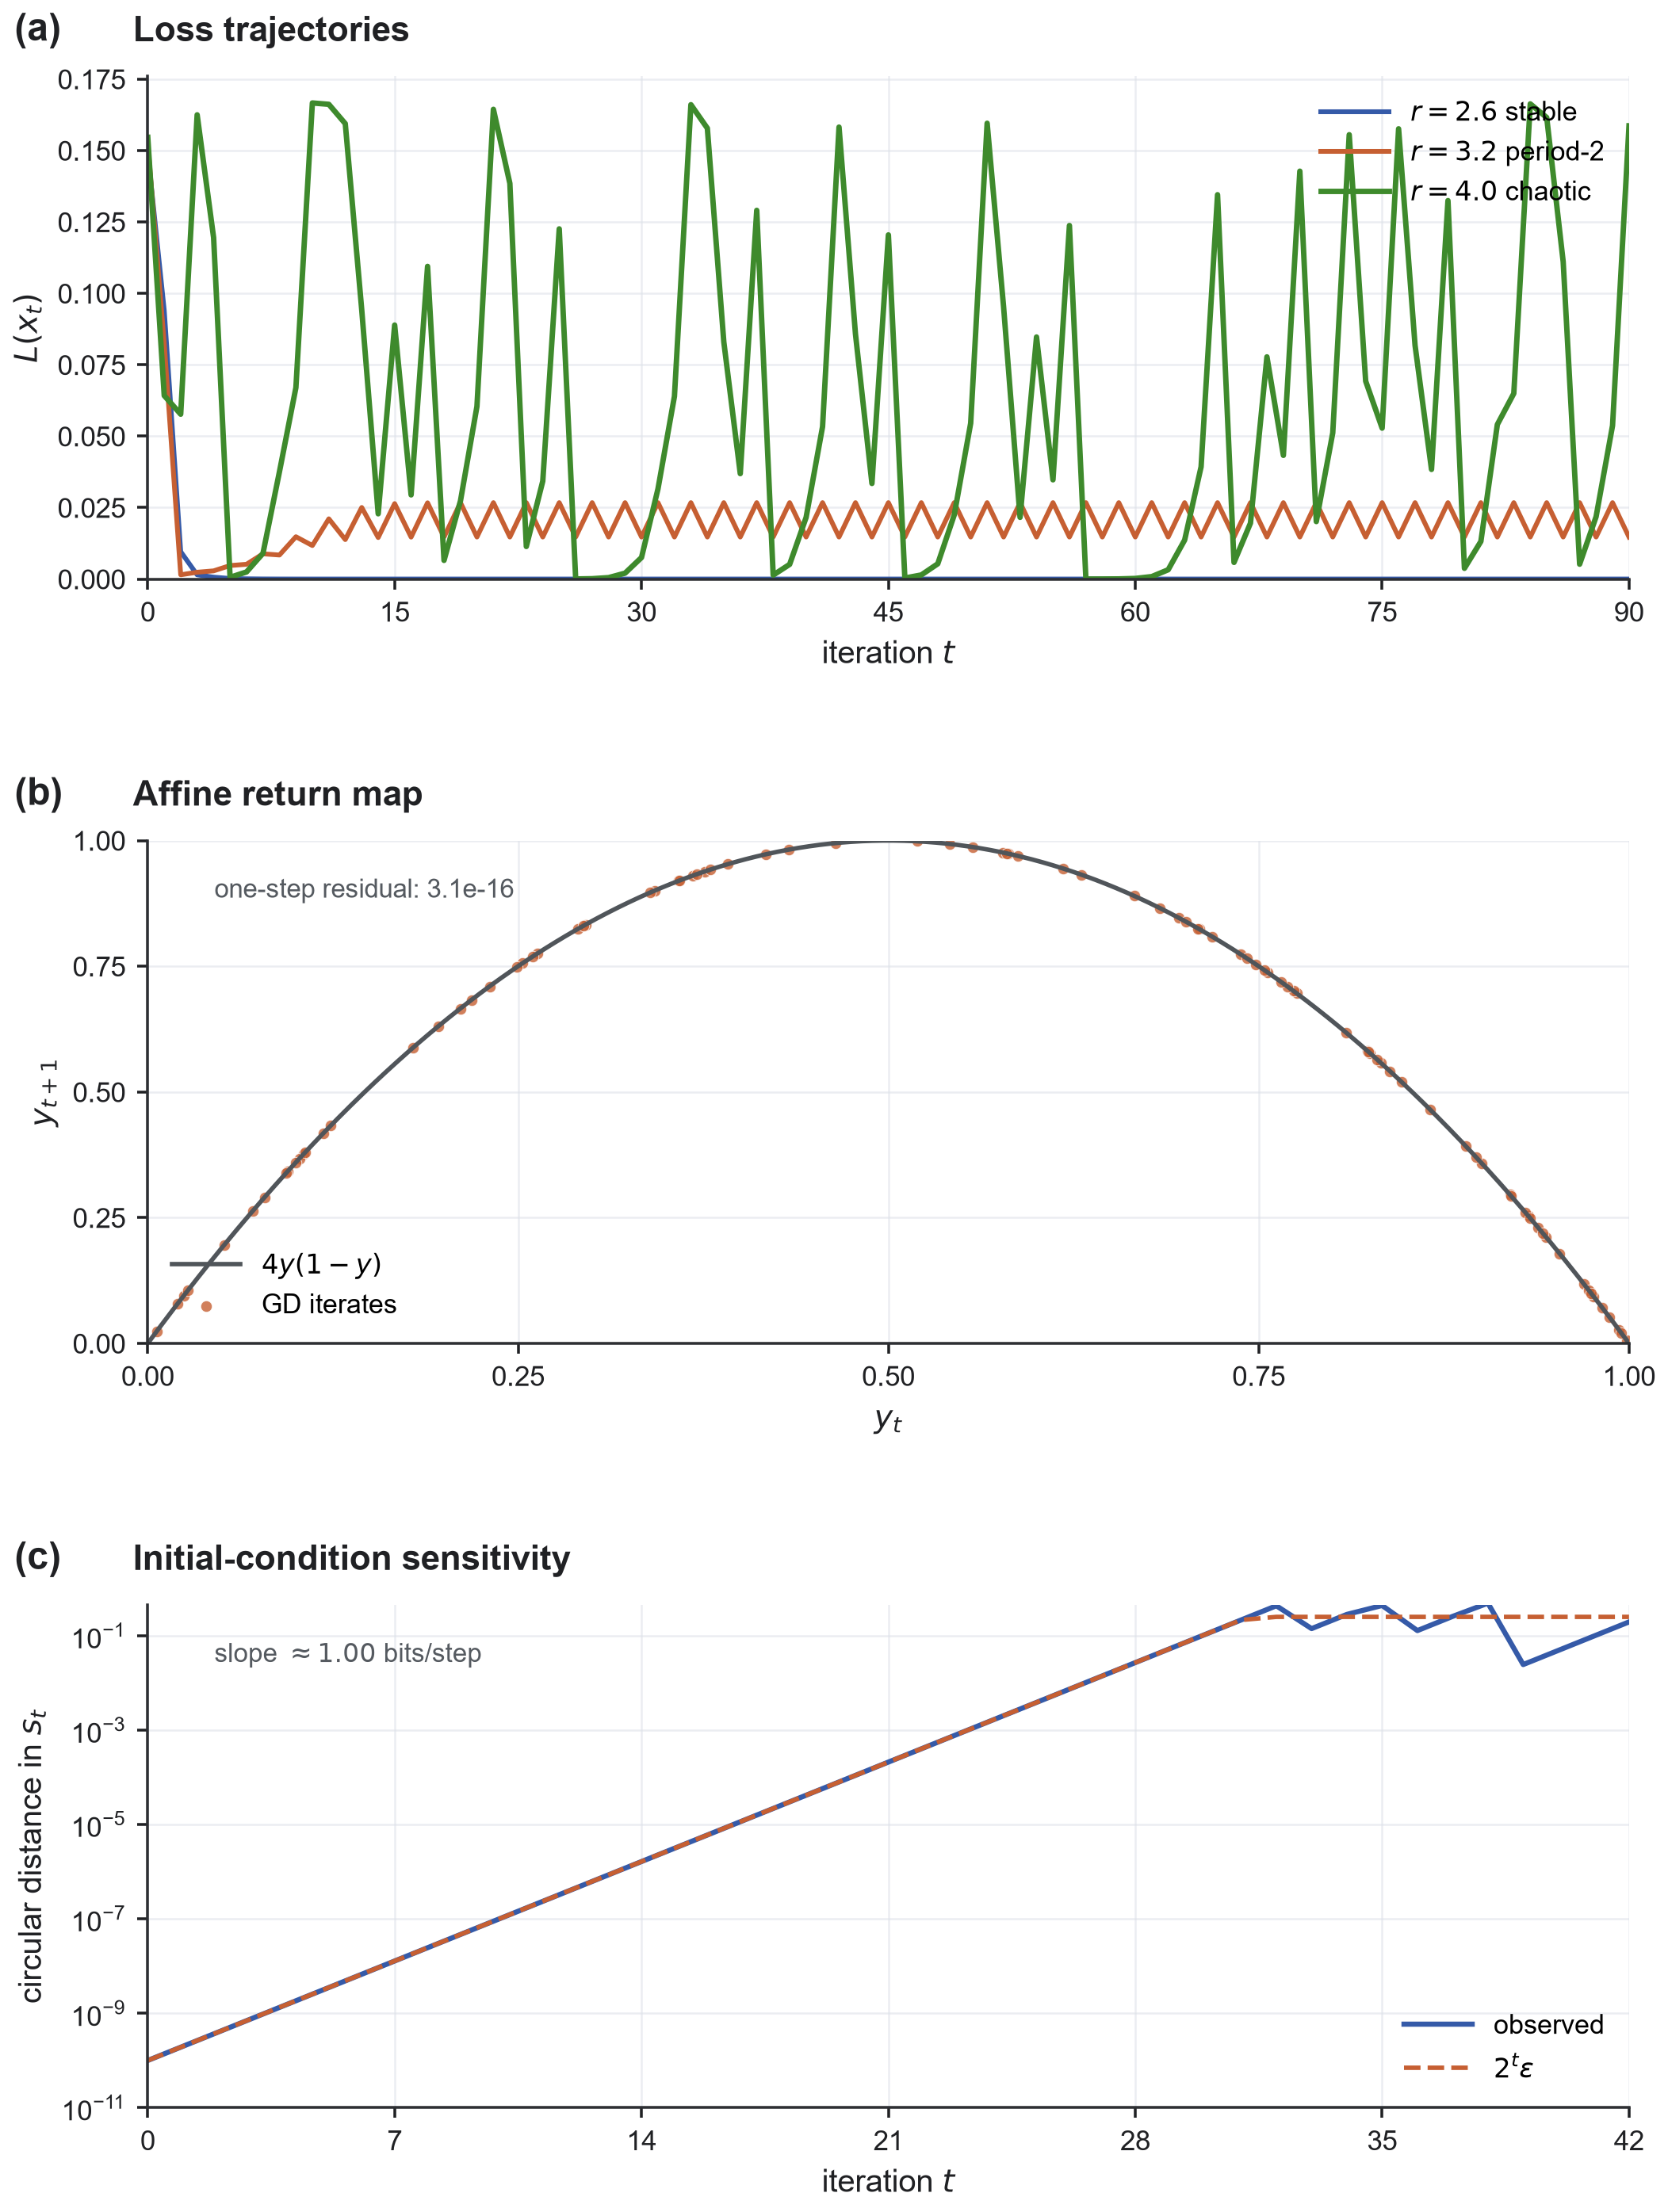
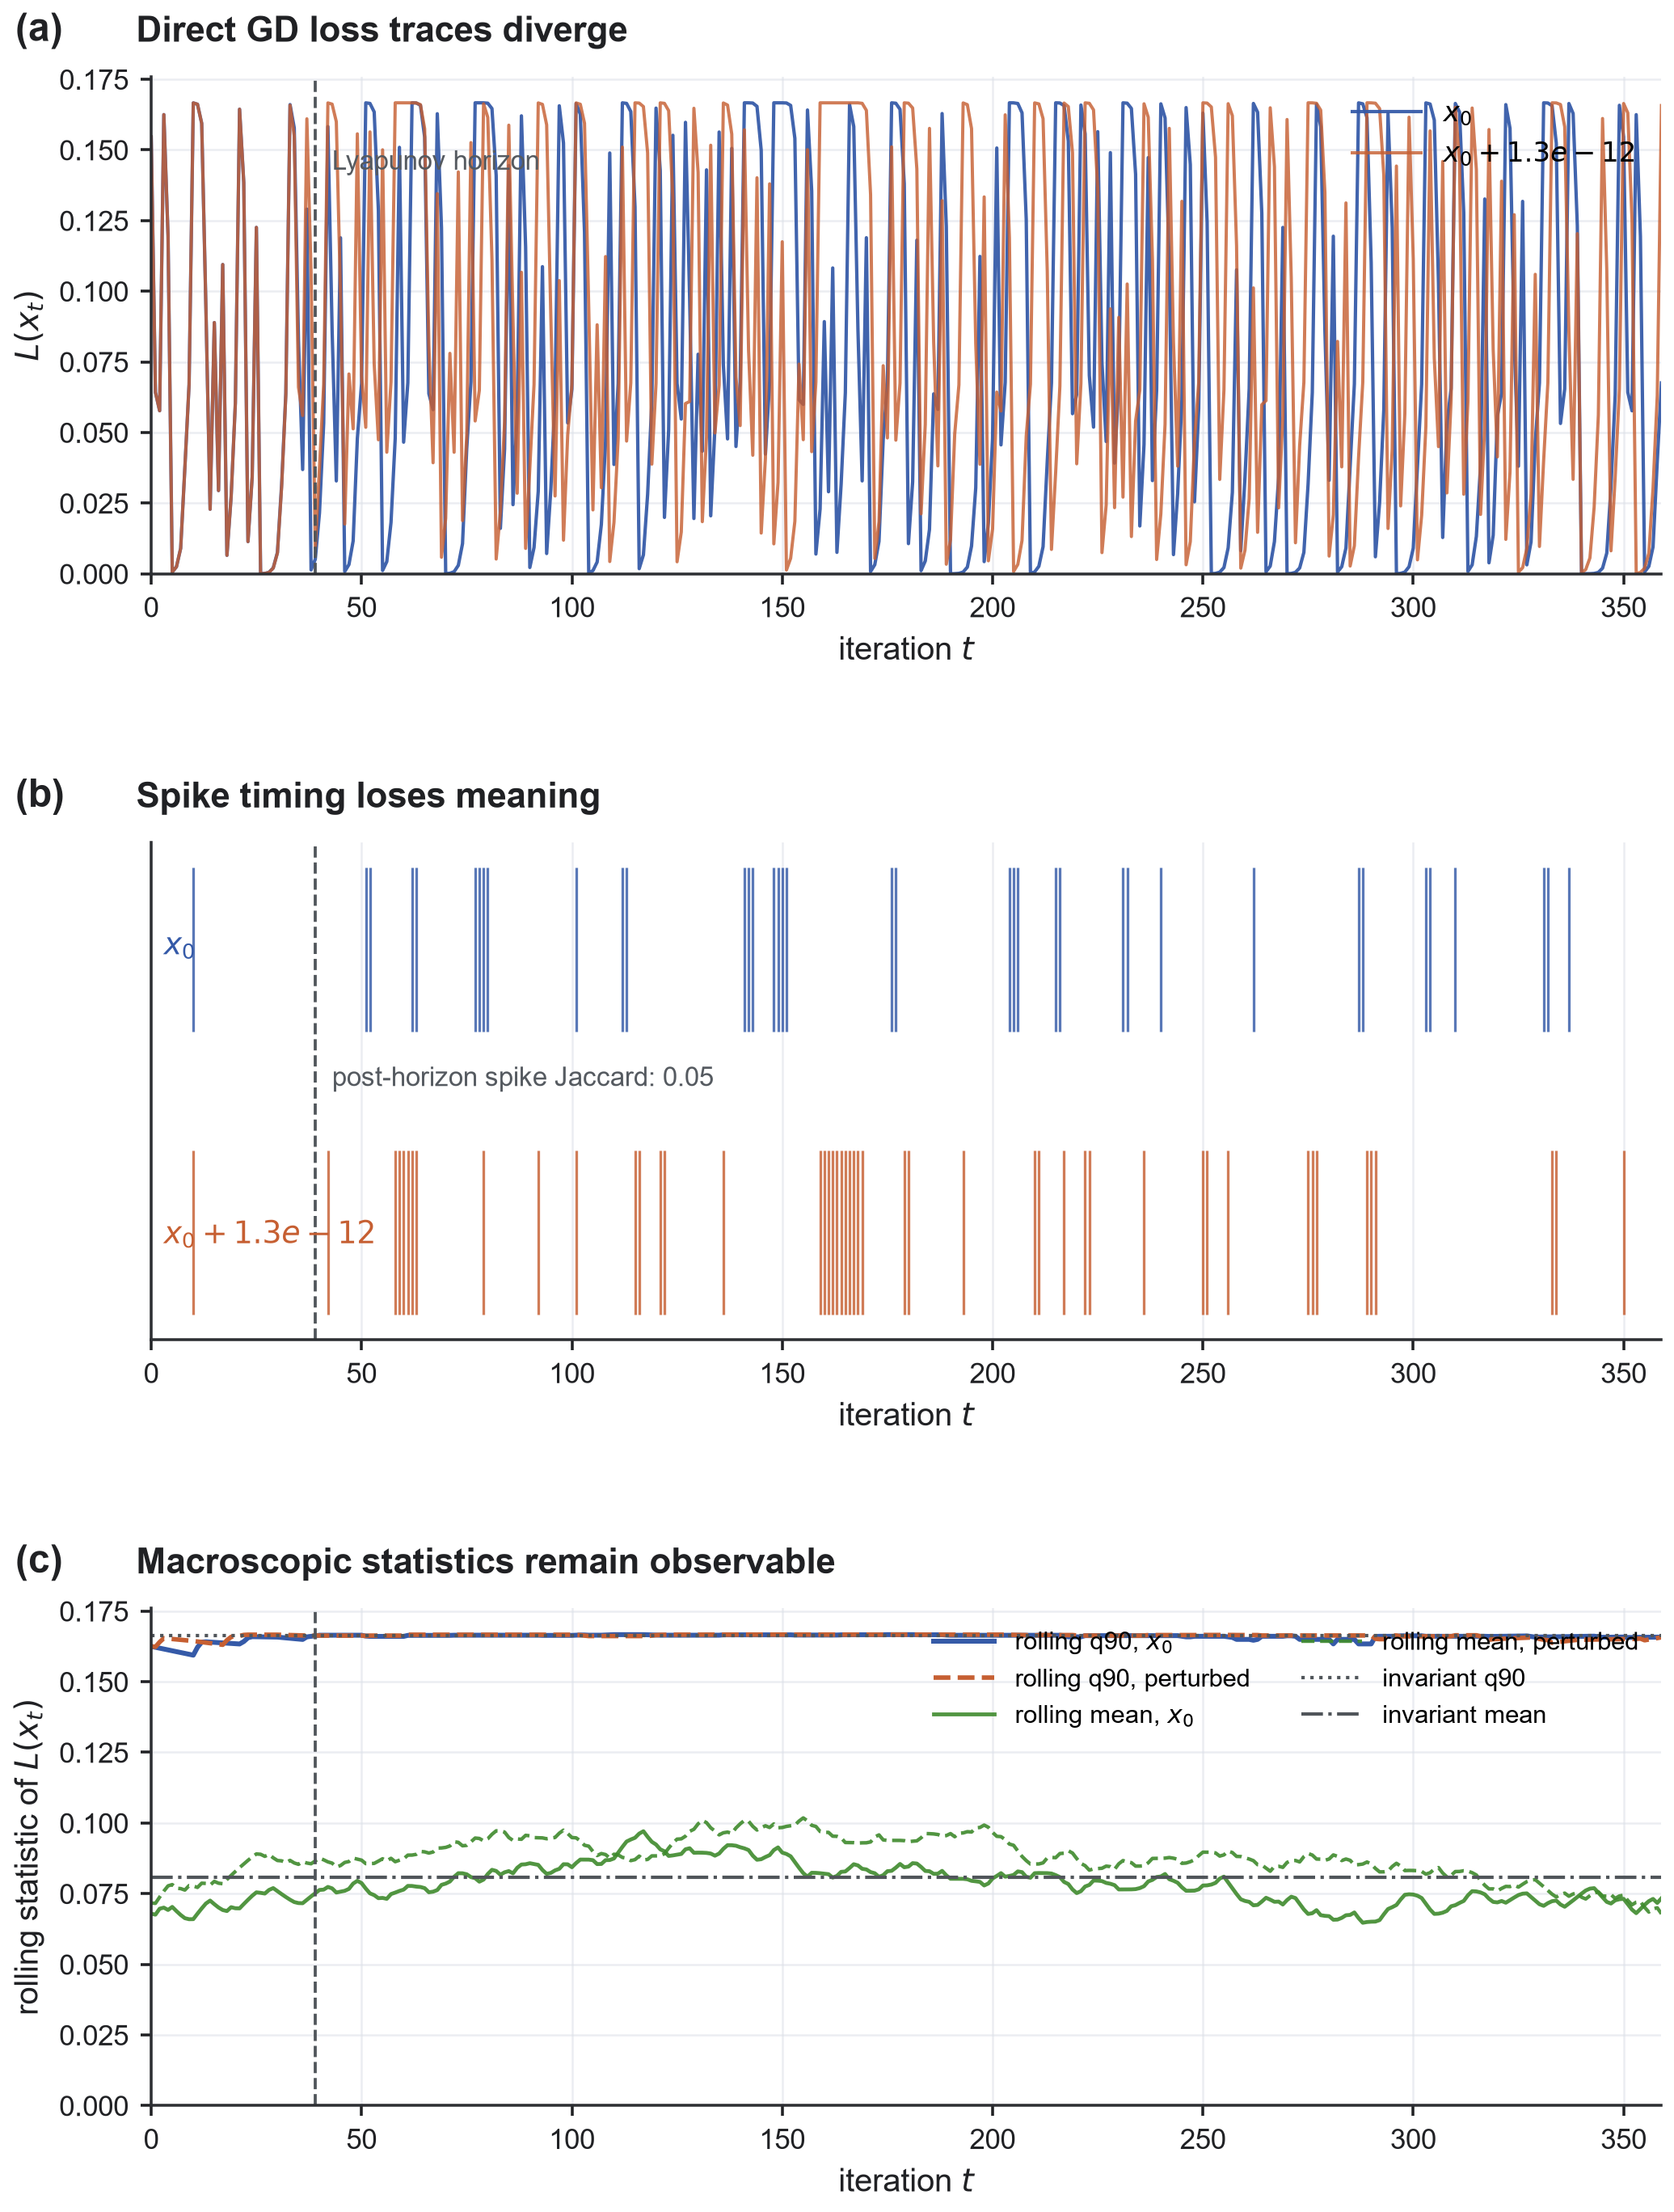
Refine blog template wording and emphasis

diff --git a/_posts/2026-06-14-loss-spikes-chaos.md b/_posts/2026-06-14-loss-spikes-chaos.md
@@ -69,7 +69,9 @@ $$\ell_t = L(x_t) = h(y_t), \quad y_{t+1} = r\, y_t(1-y_t)$$
 
 ## 6. 数值验证
 
-下面做一个最小数值实验来检查上面的三个结论。取
+前面的推导已经说明，三次 loss 下的 GD 可以严格化成 Logistic map。这里的数值实验直接迭代原始 GD 递推，不先跑 Logistic map；实验要检查的是本文真正关心的问题：单个 spike 的逐点时刻是否值得预测，以及宏观统计量是否仍然可观测。
+
+取混沌情形 $$r=4$$，也就是 $$\eta=3$$。这时
 
 $$
 \lambda=1,\quad \gamma=2,\quad L_*=0.
@@ -81,13 +83,15 @@ $$
 L(x)=\frac{1}{2}x^2+\frac{1}{3}x^3,\quad x_{t+1}=(1-\eta)x_t-\eta x_t^2.
 $$
 
-对每个给定的 $$r$$，令 $$\eta=r-1$$，并使用上文的仿射换元
+实验中直接从 $$x_0$$ 开始迭代上面的 $$x_t$$ 递推，并记录真实的三次 loss $$L(x_t)$$。为了让初值扰动和前面的 Logistic map 记号对齐，先取 $$y_0=0.123456789$$，再用
 
 $$
-y_t=A x_t+B,\quad A=B=\frac{\eta}{1+\eta}.
+x_0=\frac{y_0-B}{A}
 $$
 
-实验里先固定同一个 $$y_0=0.123456789$$，再由 $$x_0=(y_0-B)/A$$ 反解出对应的 GD 初值，然后直接迭代原始的 $$x_t$$ 递推。
+换回 GD 变量。第二条轨迹使用 $$y_0+10^{-12}$$ 对应的 $$x_0$$，也就是在 $$x$$ 空间里只差大约 $$1.3\times 10^{-12}$$。按照 doubling map 的理解，这种精度对应的逐点可预测时长大约是 $$\log_2(10^{12})\approx 40$$ 步。
+
+Spike 的定义也只依赖 direct-GD loss：先用一条长 GD 轨迹估计 $$L(x_t)$$ 的不变分布，再把超过 90% 分位数的位置记为 spike。
 
 {% include figure.liquid
   path="assets/img/post-06-14/loss-spike-dynamics.png"
@@ -97,16 +101,16 @@ $$
   sizes="(min-width: 1200px) 1050px, 95vw"
   zoomable=true
   alt="三次 loss 梯度下降与 Logistic map 动力学的数值验证"
-  caption="三次 loss 梯度下降与 Logistic map 动力学的数值验证。"
+  caption="直接迭代三次 loss 的 GD：逐点 spike 很快失配，但 rolling q90 和 rolling mean 仍然稳定。"
 %}
 
-图中的三栏分别对应上面的三个推导环节：
+图中的三栏对应两种不同的预测目标：
 
-- (a) 比较不同 $$r=1+\eta$$ 下的 loss 轨迹。$$r<3$$ 时收敛到稳定点；跨过 $$r=3$$ 后出现非单调振荡；$$r=4$$ 时进入强烈的混沌区。
-- (b) 把 $$r=4$$ 的 GD 轨迹换元到 $$y_t$$ 后画出 return map。散点落在 $$y_{t+1}=4y_t(1-y_t)$$ 上，一步残差只有浮点误差量级。
-- (c) 在 doubling coordinate $$s_t$$ 中比较两个相差 $$10^{-10}$$ 的初值。距离先按 $$2^t$$ 放大，直到饱和。
+- (a) 两条 direct-GD loss 曲线在大约 40 步之后明显分开。它们的初值只差约 $$1.3\times 10^{-12}$$，但后续 spike 的具体时刻已经不再一致。
+- (b) 如果把 spike 定义成 $$L(x_t)$$ 的高分位事件，那么 Lyapunov horizon 之后，两条轨迹的 spike time 集合几乎不重合。这说明“预测下一个 spike 在第几步出现”不是一个稳定任务。
+- (c) 但是 rolling q90 和 rolling mean 这类宏观统计量仍然稳定。两条轨迹虽然逐点不同，却落在相同的不变分布统计量附近。
 
-这组实验的作用不是模拟真实大模型，而是确认 toy model 里的逻辑链条是闭合的：三次 loss 下的 GD 递推确实等价于 Logistic map；$$r=3$$ 对应第一次稳定性破缺；而在 $$r=4$$ 时，初值误差在 $$s_t$$ 坐标里近似每步翻倍。因此，单个 spike 的逐点时刻会很快依赖初值中极靠后的有效位数，这也正是它不适合作为长期预测目标的原因。
+所以这组实验想表达的不是“loss 没有规律”，而是“规律不在逐点 spike 时刻上”。在经典混沌系统里，点预测会很快被初值精度限制住；但 regime、spike 频率、幅度分布、rolling quantile 和 rolling mean 这些宏观量仍然可以稳定估计。对真实训练来说，这也更像一个合理的监控目标。
 
 ## 参考文献
 